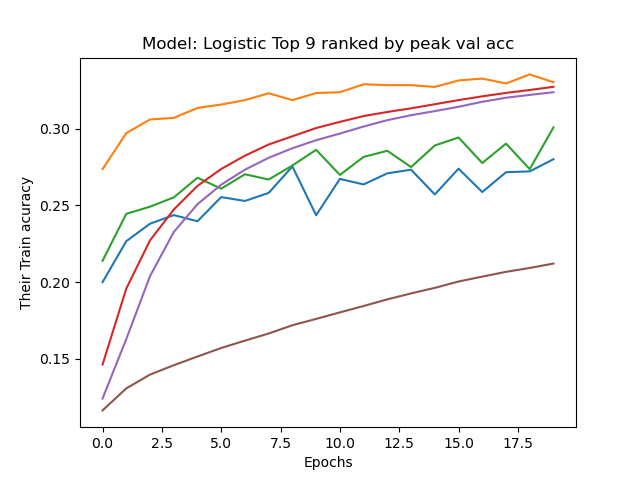
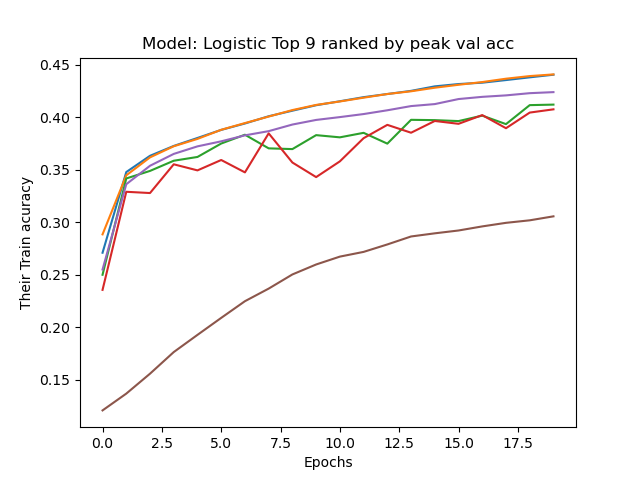
a lot

diff --git a/HW3/hw3code/A6.py b/HW3/hw3code/A6.py
@@ -87,6 +87,12 @@ def GetTrainValDataLoader(bs):
                                          batch_size=bs)
     return TrainSet, ValSet
 
+def GetTS():
+    import time
+    Ts = time.strftime('%H-%M-%S-%b-%d-%Y')
+    return Ts
+
+
 
 class BestModelRegister:
     """
@@ -124,6 +130,9 @@ class BestModelRegister:
     def ProducePlotPrintResult(this):
         from pathlib import Path
         Path("./a6bestmodel").mkdir(parents=True, exist_ok=True)
+        import time
+        Ts = time.strftime('%H-%M-%S-%b-%d-%Y')
+
         ModelTypeMap = {1: "Logistic", 2: "Single Hidden", 3:"CNN"}
         TheLegends = [1, 2, 3, 4, 5, 6, 7, 8, 9]
         TopList = this.Top9AccList()
@@ -133,8 +142,8 @@ class BestModelRegister:
         plt.xlabel("Epochs")
         plt.ylabel("Their Train acuracy")
         plt.title(f"Model: {ModelTypeMap[this.ModelType]} Top 9 ranked by peak val acc")
-        plt.savefig(f"A6-{ModelTypeMap[this.ModelType]}-train-acc.png")
         plt.legend([f"top {R}" for R in TheLegends])
+        plt.savefig(f"./a6bestmodel/{Ts}-{ModelTypeMap[this.ModelType]}-train-acc.png")
         plt.show()
         # Plot the validation acc
         for _, V in TopList.items():
@@ -142,19 +151,23 @@ class BestModelRegister:
         plt.xlabel("Epochs")
         plt.ylabel("Their Val acuracy")
         plt.title(f"Model: {ModelTypeMap[this.ModelType]} Top 9 ranked by peak val acc")
-        plt.savefig(f"A6-{ModelTypeMap[this.ModelType]}-val-acc.png")
         plt.legend([f"top {R}" for R in TheLegends])
+        plt.savefig(f"./a6bestmodel/{Ts}-{ModelTypeMap[this.ModelType]}-val-acc.png")
         plt.show()
         # Plot the top 1 model found:
-        plt.plot(V[0])
-        plt.plot(V[1])
+        plt.plot(TopList[max(TopList.keys())][0])
+        plt.plot(TopList[max(TopList.keys())][1])
         plt.legend(["train", "val"])
         plt.xlabel("epochs")
         plt.ylabel("acc")
-        plt.savefig(f"A6-{ModelTypeMap[this.ModelType]}-best-acc.png")
+        plt.title("Best model train val acc")
+        plt.savefig(f"./a6bestmodel/{Ts}-{ModelTypeMap[this.ModelType]}-best-acc.png")
         plt.show()
         # write the results
-        with open(f"./a6bestmodel/top9A6 {ModelTypeMap[this.ModelType]}.txt", "w+") as f:
+
+
+        with open(f"./a6bestmodel/top9A6-{Ts}" +
+                  f"-{ModelTypeMap[this.ModelType]}.txt", "w+") as f:
             if this.ModelType == 1:
                 f.write(f"max_val_acc, BatchSize, Learning_Rate\n")
                 for K, _ in TopList.items():
@@ -276,15 +289,28 @@ class ModelB(nn.Module):
                 modelRegister.BestAcc = Acc
                 modelRegister.BestModel = Model
                 if verbose: print(f"Best Acc Update: {Acc}")
-            mem[BatchSize, Lr] = 1 - Acc  # Memeorization.
+            mem[BatchSize, Lr, HiddenLayerWidth] = 1 - Acc  # Memeorization.
             return 1 - Acc
 
         return HyperTuneFunc
 
 
 class ModelC(torch.nn.Module):
-    def __init__(this):
+    def __init__(this, c, k1, k2):
+        """
+
+        :param c:
+            Chennel for conv2d
+        :param k1:
+            Kernel for conv2d
+        :param k2:
+            Kernel for max pool
+        """
         super().__init__()
+        this.Con = nn.Conv2d(3, c, k1)
+        this.Mp = nn.MaxPool2d(k2)
+
+
 
 
 
@@ -297,26 +323,40 @@ def main():
         ModelRegister = BestModelRegister()
         TheFunc = ModelA.GetHyperTuneFunc(20, True, ModelRegister)
         result = shgo(TheFunc,
-             [(20, 500), (1e-6, 0.1)],
-             options={"maxev":10, "ftol": 1e-2, "maxfev": 3})
+             [(100, 100), (5e-6, 0.01)],
+             options={"maxev":50, "ftol": 1e-2, "maxfev": 10})
         print(result)
         print(ModelRegister.Top9AccList())
         ModelRegister.ProducePlotPrintResult()
+        TestSet = torch.utils.data.DataLoader(CIFAR_VAL,
+                                         batch_size=2000)
+        Acc = BatchThisModel(ModelRegister.BestModel,
+                             TestSet,
+                             dataTransform=lambda x: x.view(x.shape[0], -1))
+        with open(f"./a6bestmodel/{GetTS()}-best-model-logistic-test.txt", "w+") as f:
+            f.write(str(Acc))
+
 
     def TuneModel2():
         ModelRegister = BestModelRegister()
         TheFunc = ModelB.GetHyperTuneFunc(20, True, ModelRegister)
         result = shgo(TheFunc,
-                      [(20, 10000), (1e-4, 0.1), (50, 5000)],
-                      options={"maxev": 20, "ftol": 1e-2, "maxfev": 5})
+                      [(100, 100), (1e-6, 0.001), (20, 3000)],
+                      options={"maxev": 20, "ftol": 1e-2, "maxfev": 10})
         print(result)
         print(ModelRegister.Top9AccList())
         ModelRegister.ProducePlotPrintResult()
+        TestSet = torch.utils.data.DataLoader(CIFAR_VAL,
+                                              batch_size=2000)
+        Acc = BatchThisModel(ModelRegister.BestModel, TestSet,
+                             dataTransform=lambda x: x.view(x.shape[0], -1))
+        with open(f"./a6bestmodel/{GetTS()}-best-model-hidden-test.txt", "w+") as f:
+            f.write(str(Acc))
 
     def TuneModel3():
         pass
-    TuneModel2()
-    TuneModel1()
+    #TuneModel2()
+    # TuneModel1()
     # TuneModel1()
 
 if __name__ == "__main__":

diff --git a/HW3/hw3code/neural_net_cifar.py b/HW3/hw3code/neural_net_cifar.py
@@ -37,13 +37,12 @@ CIFAR_TEST = datasets.CIFAR10(root="./data",
                              train=True,
                              download=True,
                              transform=TRANSFORMS["val"])
-# CIFAR_TRAIN, CIFAR_VAL = \
-#      torch.utils.data.random_split(CIFAR_TRAIN,
-#                                    [45000, 50000 - 45000])
-CIFAR_TRAIN, CIFAR_VAL = torch.utils.data.Subset(CIFAR_TRAIN,
-                                                 range(0, 5000, 2)),\
-                         torch.utils.data.Subset(CIFAR_TRAIN,
-                                                 range(1, 5000, 2))
+CIFAR_TRAIN, CIFAR_VAL = \
+     torch.utils.data.random_split(CIFAR_TRAIN, [45000, 50000 - 45000])
+# CIFAR_TRAIN, CIFAR_VAL = torch.utils.data.Subset(CIFAR_TRAIN,
+#                                                  range(0, 5000, 2)),\
+#                          torch.utils.data.Subset(CIFAR_TRAIN,
+#                                                  range(1, 5000, 2))
 CLASSES = \
     ('plane', 'car', 'bird', 'cat', 'deer', 'dog', 'frog', 'horse', 'ship', 'truck')
 
@@ -151,8 +150,8 @@ def Run(finetune:bool, batchsize:int, epochs:int):
 
 
 def main():
-    Run(False, 20, epochs=15)
-    # Run(True, 100, epochs=15)
+    Run(False, 100, epochs=15)
+    Run(True, 100, epochs=15)
 
 if __name__ == "__main__":
     import os
